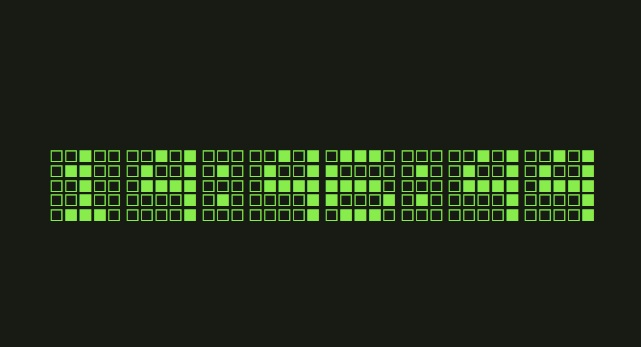
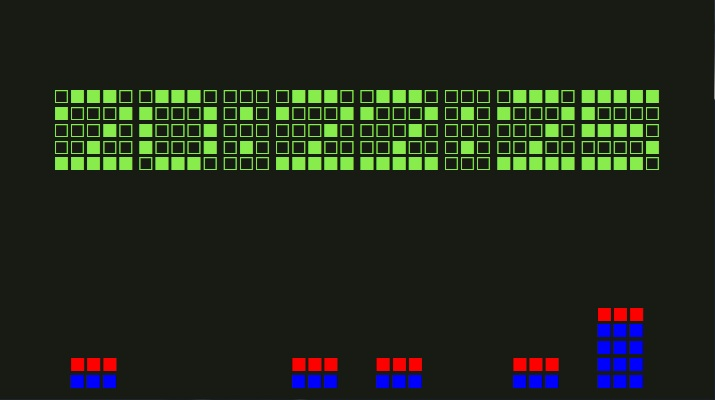
Added digital bars

diff --git a/index.html b/index.html
@@ -13,17 +13,35 @@
             font-weight: bold;
             color: rgb(135, 236, 76);
             background-color: rgb(23, 27, 20);
+            overflow: hidden;           /* hide scrollbars */
         }
-
         table{
             height: 100vh;              /*  table height to fill page height  */
         }                               /* and center text vertically on page */
-
+        .color{
+            color: blue;
+        }
+        #dicitalClock{
+            height: 60%;
+        }
+        #blackSquare{
+            height: 36%;
+            color: blue;
+        }
+        #thirdRow{
+            height: 4%;
+        }
+        .tower::first-line{
+            color: red;
+        }
+        td{
+            text-align: center;
+        }
     </style>
 </head>
 <body onload="setInterval(myFunction, 1000)"> <!-- setInterval to update clock -->
     <table align="center">
-        <tr>
+        <tr id="digitalClock">
             <td id="cell1"></td>
             <td id="cell2"></td>
             <td id="cell3"></td>
@@ -33,37 +51,21 @@
             <td id="cell7"></td>
             <td id="cell8"></td>
         </tr>
+        <tr id="blackSquare" valign="bottom">
+            <td id="cellA" class="tower"></td>
+            <td id="cellB" class="tower"></td>
+            <td id="cellC" class="tower"></td>
+            <td id="cellD" class="tower"></td>
+            <td id="cellE" class="tower"></td>
+            <td id="cellF" class="tower"></td>
+            <td id="cellG" class="tower"></td>
+            <td id="cellH" class="tower"></td>
+        </tr>
+        <tr id="thirdRow">
+        </tr>
     </table>
 </body>
 <script>
-    /* var numbers = [
-    "_XXX_<br>X___X<br>X___X<br>X___X<br>_XXX_",
-    "__X__<br>_XX__<br>X_X__<br>__X__<br>XXXXX",
-    "_XXX_<br>X___X<br>___X_<br>__X__<br>XXXXX",
-    "_XXX_<br>X___X<br>___X_<br>X___X<br>_XXX_",
-    "__X_X<br>_X__X<br>XXXXX<br>____X<br>____X",
-    "XXXXX<br>X____<br>XXXX_<br>____X<br>XXXX_",
-    "_XXX_<br>X____<br>XXXX_<br>X___X<br>_XXX_",
-    "XXXXX<br>____X<br>___X_<br>__X__<br>_X___",
-    "_XXX_<br>X___X<br>_XXX_<br>X___X<br>_XXX_",
-    "_XXX_<br>X___X<br>_XXXX<br>____X<br>_XXX_",
-    ]
-    const numbBreak = "___<br>_X_<br>___<br>_X_<br>___"; */
-
-    /* var numbers = [
-    "_■■■_<br>■___■<br>■___■<br>■___■<br>_■■■_",
-    "__■__<br>_■■__<br>■_■__<br>__■__<br>■■■■■",
-    "_■■■_<br>■___■<br>___■_<br>__■__<br>■■■■■",
-    "_■■■_<br>■___■<br>___■_<br>■___■<br>_■■■_",
-    "__■_■<br>_■__■<br>■■■■■<br>____■<br>____■",
-    "■■■■■<br>■____<br>■■■■_<br>____■<br>■■■■_",
-    "_■■■_<br>■____<br>■■■■_<br>■___■<br>_■■■_",
-    "■■■■■<br>____■<br>___■_<br>__■__<br>_■___",
-    "_■■■_<br>■___■<br>_■■■_<br>■___■<br>_■■■_",
-    "_■■■_<br>■___■<br>_■■■■<br>____■<br>_■■■_",
-    ]
-    const numbBreak = "___<br>_■_<br>___<br>_■_<br>___"; */
-
     // number symbols(0-9) with line breaks
     var numbers = [
     "□■■■□<br>■□□□■<br>■□□□■<br>■□□□■<br>□■■■□",
@@ -80,12 +82,14 @@
 
     // two dots between numbers
     const numbBreak = "□□□<br>□■□<br>□□□<br>□■□<br>□□□";
-
-    // two dots displayed on screen(x2)
-    document.getElementById("cell3").innerHTML = numbBreak;
-    document.getElementById("cell6").innerHTML = numbBreak;
     
+    const blackSquare = "■■■";
+
     function myFunction(){    
+        // two dots displayed on screen(x2)
+        document.getElementById("cell3").innerHTML = numbBreak;
+        document.getElementById("cell6").innerHTML = numbBreak;
+
         var d = new Date();                     // getting system date/time
         var hours = d.getHours();               // getting hours from system time
         var minutes = d.getMinutes();           // getting minutes from system time
@@ -104,27 +108,53 @@
         if(hours < 10){                         // if hours are only one space long
             document.getElementById("cell1").innerHTML = numbers[0];
             document.getElementById("cell2").innerHTML = numbers[cellValue1];
+            document.getElementById("cellA").innerHTML = "_";
+            document.getElementById("cellB").innerHTML = convertNumbersToSymbols(cellValue1);
         } else {
             document.getElementById("cell1").innerHTML = numbers[cellValue1];
             document.getElementById("cell2").innerHTML = numbers[cellValue2];
+            document.getElementById("cellA").innerHTML = convertNumbersToSymbols(cellValue1);
+            document.getElementById("cellB").innerHTML = convertNumbersToSymbols(cellValue2);
         }
 
         if(minutes < 10){                       // if minutes are only one space long
             document.getElementById("cell4").innerHTML = numbers[0];
             document.getElementById("cell5").innerHTML = numbers[cellValue3];
+            document.getElementById("cellD").innerHTML = "_";
+            document.getElementById("cellE").innerHTML = convertNumbersToSymbols(cellValue3);
         } else {
             document.getElementById("cell4").innerHTML = numbers[cellValue3];
             document.getElementById("cell5").innerHTML = numbers[cellValue4];
+            document.getElementById("cellD").innerHTML = convertNumbersToSymbols(cellValue3);
+            document.getElementById("cellE").innerHTML = convertNumbersToSymbols(cellValue4);
         }
 
         if(seconds < 10){                       // if seconds are only one space long
             document.getElementById("cell7").innerHTML = numbers[0];
             document.getElementById("cell8").innerHTML = numbers[cellValue5];
+            document.getElementById("cellG").innerHTML = "_";
+            document.getElementById("cellH").innerHTML = convertNumbersToSymbols(cellValue5);
         } else {
             document.getElementById("cell7").innerHTML = numbers[cellValue5];
             document.getElementById("cell8").innerHTML = numbers[cellValue6];
+            document.getElementById("cellG").innerHTML = convertNumbersToSymbols(cellValue5);
+            document.getElementById("cellH").innerHTML = convertNumbersToSymbols(cellValue6);
+        }
+
+        var i = 0;
+        function convertNumbersToSymbols(inputValue){
+            var outputString = "";
+            for(i = 0; i < inputValue; i++){
+                /* console.log(outputString); */
+                if(outputString === ""){
+                    outputString = blackSquare;
+                }else if(outputString !== ""){
+                    outputString += "<br>" + blackSquare;
+                }
+            }
+            return outputString;
         }
     }
-
+    
 </script>
 </html>
